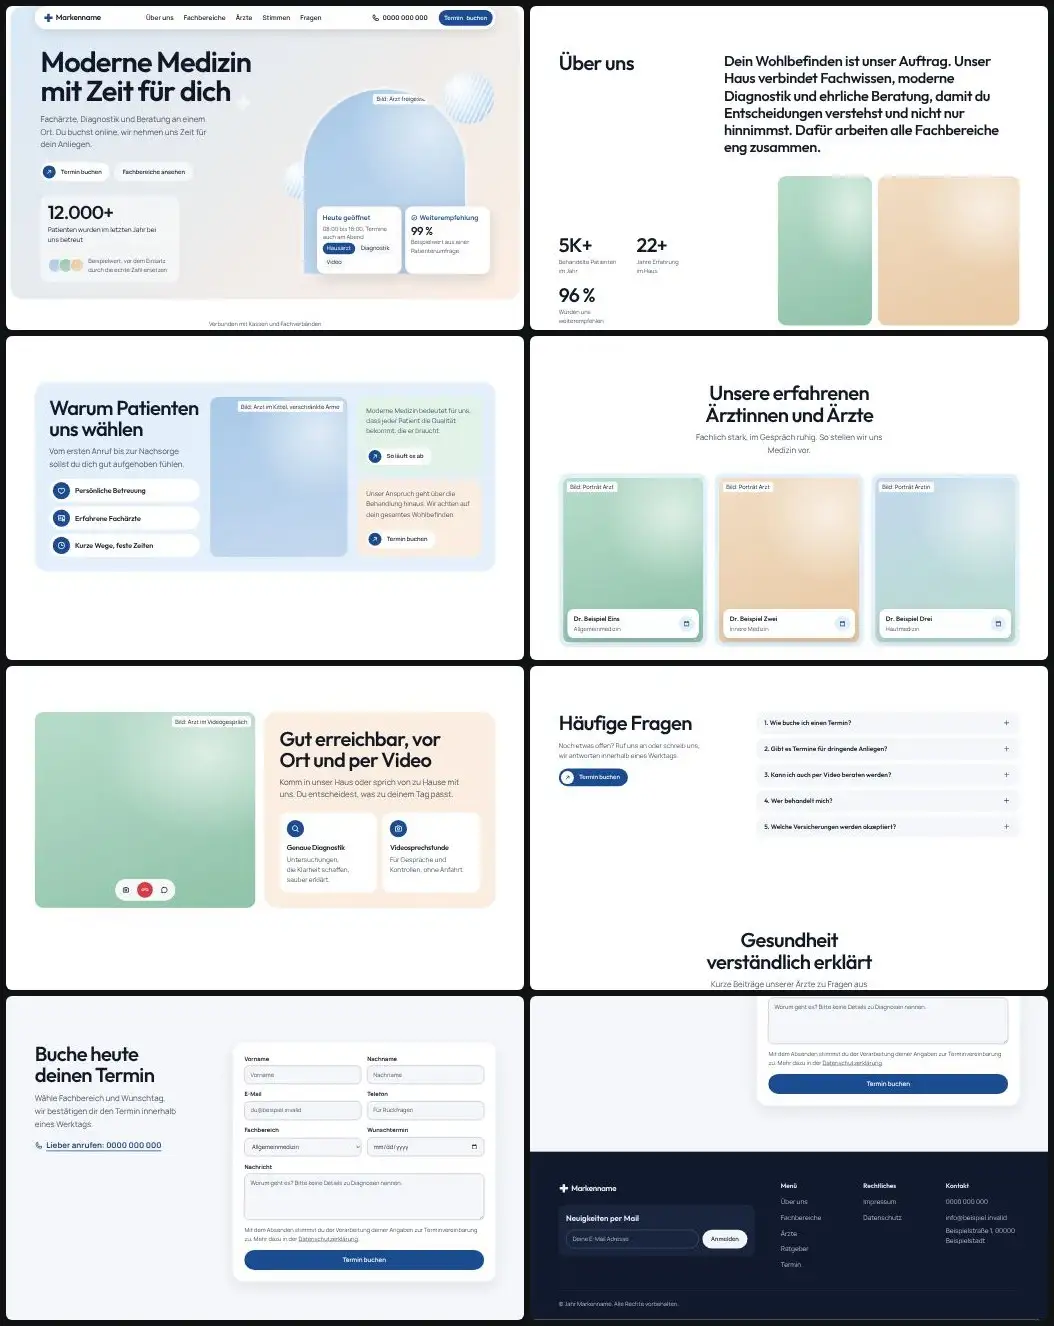
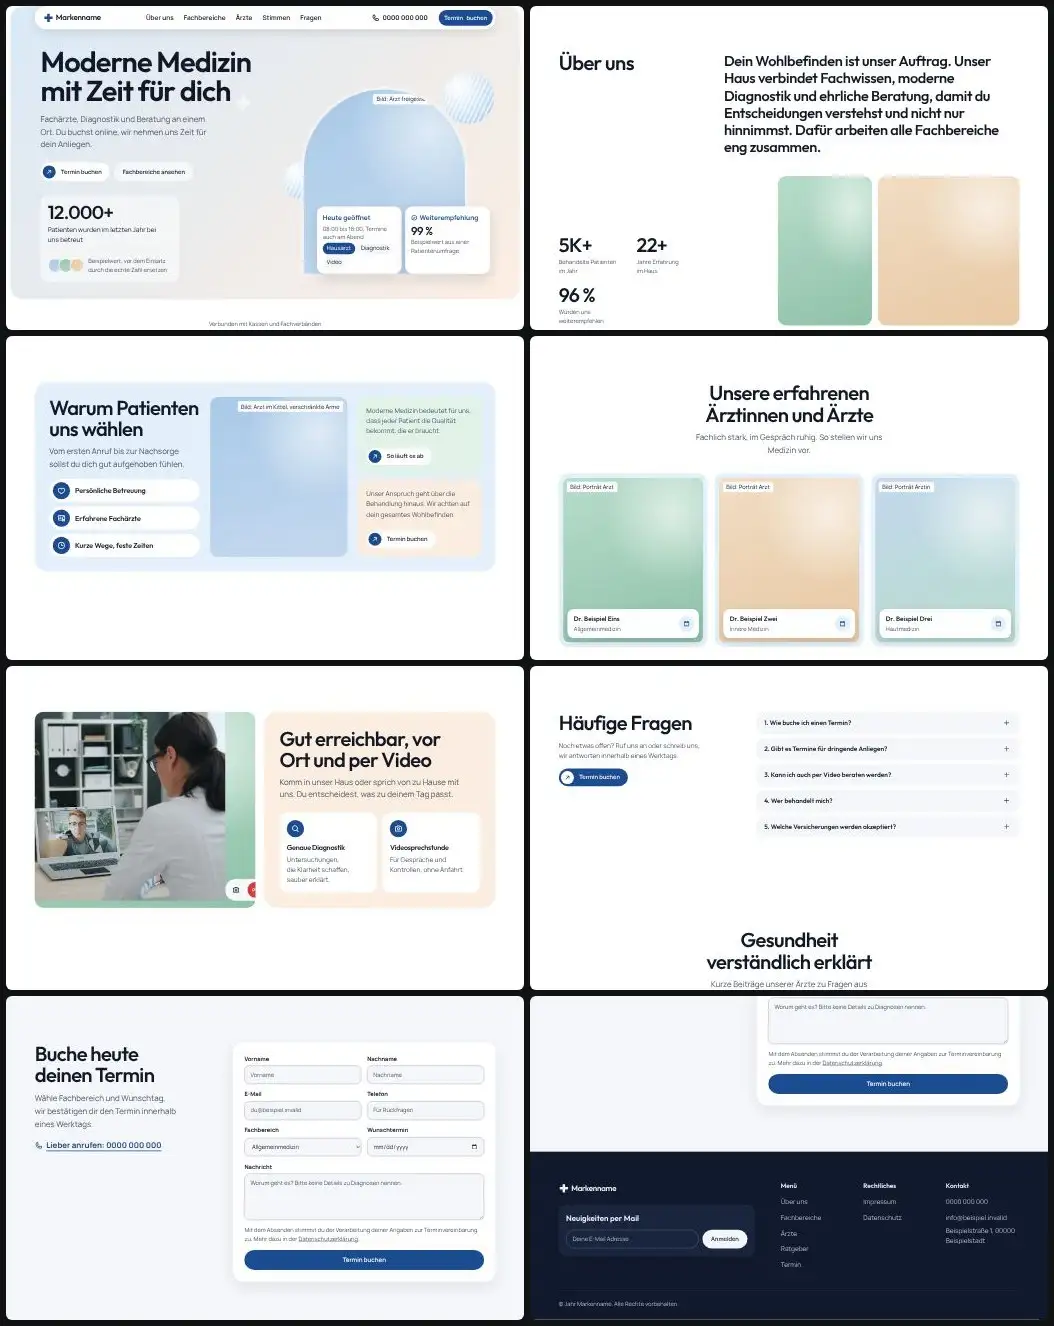
Bibliothek t61: Beispielfotos (Unsplash) eingebaut, Vorschaubilder neu erzeugt
Claude-Session: https://claude.ai/code/session_01DoGuL1bwF3ewggMgZ4Cpvd

Changed region(s): [[0.0304, 0.5256, 0.2429, 0.6802]]

diff --git a/skills/webdesign-conversion/assets/vorlagen/bibliothek/t61/index.html b/skills/webdesign-conversion/assets/vorlagen/bibliothek/t61/index.html
@@ -254,7 +254,7 @@
   <section class="sektion erreichbar" id="ablauf" aria-labelledby="h-erreichbar">
     <div class="wrap">
       <div class="erreichbar__raster">
-        <div class="bild erreichbar__bild bild--b" data-zeig="links" data-platzhalter="Bild: Arzt im Videogespräch" role="img" aria-label="Platzhalter für ein Foto eines Arztes im Videogespräch">
+        <div class="bild erreichbar__bild bild--b" data-zeig="links"><img src="bilder/zentrum-videosprechstunde.webp" width="1000" height="563" alt="Eine Ärztin in einer Videosprechstunde am Laptop" loading="lazy" decoding="async">
           <p class="videoleiste" aria-hidden="true"><span><svg width="20" height="20" focusable="false"><use href="#i-camera"/></svg></span><span class="videoleiste__rot"><svg width="20" height="20" focusable="false"><use href="#i-phone"/></svg></span><span><svg width="20" height="20" focusable="false"><use href="#i-chat-circle"/></svg></span></p>
         </div>
         <div class="erreichbar__feld" data-zeig="rechts">
@@ -295,9 +295,9 @@
         <p class="mitte__text" data-zeig>Kurze Beiträge unserer Ärzte zu Fragen aus dem Alltag.</p>
       </header>
       <ul class="beitraege" data-staffel data-beispiel>
-        <li data-zeig><a class="beitrag" href="#ratgeber"><div class="bild beitrag__bild bild--b" data-platzhalter="Bild: Beitragsbild" role="img" aria-label="Platzhalter für ein Beitragsbild"></div><p class="beitrag__datum">Beispiel, 12. Mai</p><h3>Wann ist ein Check-up sinnvoll?</h3></a></li>
-        <li data-zeig><a class="beitrag" href="#ratgeber"><div class="bild beitrag__bild bild--c" data-platzhalter="Bild: Beitragsbild" role="img" aria-label="Platzhalter für ein Beitragsbild"></div><p class="beitrag__datum">Beispiel, 3. Juni</p><h3>Was bei einem Videotermin hilft</h3></a></li>
-        <li data-zeig><a class="beitrag" href="#ratgeber"><div class="bild beitrag__bild bild--d" data-platzhalter="Bild: Beitragsbild" role="img" aria-label="Platzhalter für ein Beitragsbild"></div><p class="beitrag__datum">Beispiel, 21. Juni</p><h3>So bereitest du dich auf den Arzttermin vor</h3></a></li>
+        <li data-zeig><a class="beitrag" href="#ratgeber"><div class="bild beitrag__bild bild--b"><img src="bilder/zentrum-stethoskop-blau.webp" width="800" height="533" alt="Stethoskop auf hellblauem Hintergrund" loading="lazy" decoding="async"></div><p class="beitrag__datum">Beispiel, 12. Mai</p><h3>Wann ist ein Check-up sinnvoll?</h3></a></li>
+        <li data-zeig><a class="beitrag" href="#ratgeber"><div class="bild beitrag__bild bild--c"><img src="bilder/zentrum-blutdruck-messen.webp" width="800" height="533" alt="Digitales Blutdruckmessgerät mit Manschette am Arm" loading="lazy" decoding="async"></div><p class="beitrag__datum">Beispiel, 3. Juni</p><h3>Was bei einem Videotermin hilft</h3></a></li>
+        <li data-zeig><a class="beitrag" href="#ratgeber"><div class="bild beitrag__bild bild--d"><img src="bilder/zentrum-hande-laptop-stethoskop.webp" width="800" height="533" alt="Hände auf einer Laptoptastatur, daneben ein Stethoskop" loading="lazy" decoding="async"></div><p class="beitrag__datum">Beispiel, 21. Juni</p><h3>So bereitest du dich auf den Arzttermin vor</h3></a></li>
       </ul>
     </div>
   </section>

diff --git a/skills/webdesign-conversion/assets/vorlagen/bibliothek/t61/BILDER.md b/skills/webdesign-conversion/assets/vorlagen/bibliothek/t61/BILDER.md
@@ -1,0 +1,21 @@
+# Bilder t61
+
+Alle Fotos von Unsplash, abgerufen am 25.11.2026. Titel und Lizenz stehen so auf der Seite des Fotos (Titel von Unsplash automatisch vergeben), als Fotograf ist das Unsplash Profil angegeben, weil die Seite den Namen nur als Profillink zeigte. Lizenz ist jeweils die Unsplash Lizenz.
+
+| Datei | Platz | Foto Titel | Fotograf (Profil) | Seite | Lizenz | Abruf |
+|---|---|---|---|---|---|---|
+| zentrum-videosprechstunde.webp.webp | Ort und per Video | Arzt, der den Patienten per Videoanruf auf dem Laptop konsultiert | @silverkblack | https://unsplash.com/photos/JyPAY9-WNE8 | Unsplash Lizenz | 25.11.2026 |
+| zentrum-stethoskop-blau.webp.webp | Beitragsbild 1 | Ein schwarzes medizinisches Stethoskop mit silbernem Brustteil auf hellblauem Hintergrund | @etactics | https://unsplash.com/photos/JkWMM8x1sLo | Unsplash Lizenz | 25.11.2026 |
+| zentrum-blutdruck-messen.webp.webp | Beitragsbild 2 | Eine Person, die ein digitales Blutdruckmessgerät mit einer grauen Manschette am Arm benutzt | @mockupgraphics | https://unsplash.com/photos/i1iqQRLULlg | Unsplash Lizenz | 25.11.2026 |
+| zentrum-hande-laptop-stethoskop.webp.webp | Beitragsbild 3 | Person, die sitzt, während sie einen Laptop und ein grünes Stethoskop in der Nähe | @nci | https://unsplash.com/photos/NFvdKIhxYlU | Unsplash Lizenz | 25.11.2026 |
+
+## Hinweise
+
+* Das Bild der Videosprechstunde zeigt eine Stockperson von hinten als Atmosphäre, keine echte Ärztin.
+* Keine Heil oder Erfolgsversprechen im Bildtext.
+* Auf 390 px besteht ein Überlauf von 402 px, der schon vor den Fotos da war (Marquee), nicht durch die Bilder verursacht.
+* Vor Abgabe durch eigene Praxisfotos ersetzen.
+
+## Offen
+
+* Freigestelltes Arztbild im Held, Porträts Arzt und Ärztin (Über uns, Gründe, Team), Arzt im Gespräch (Über uns)
